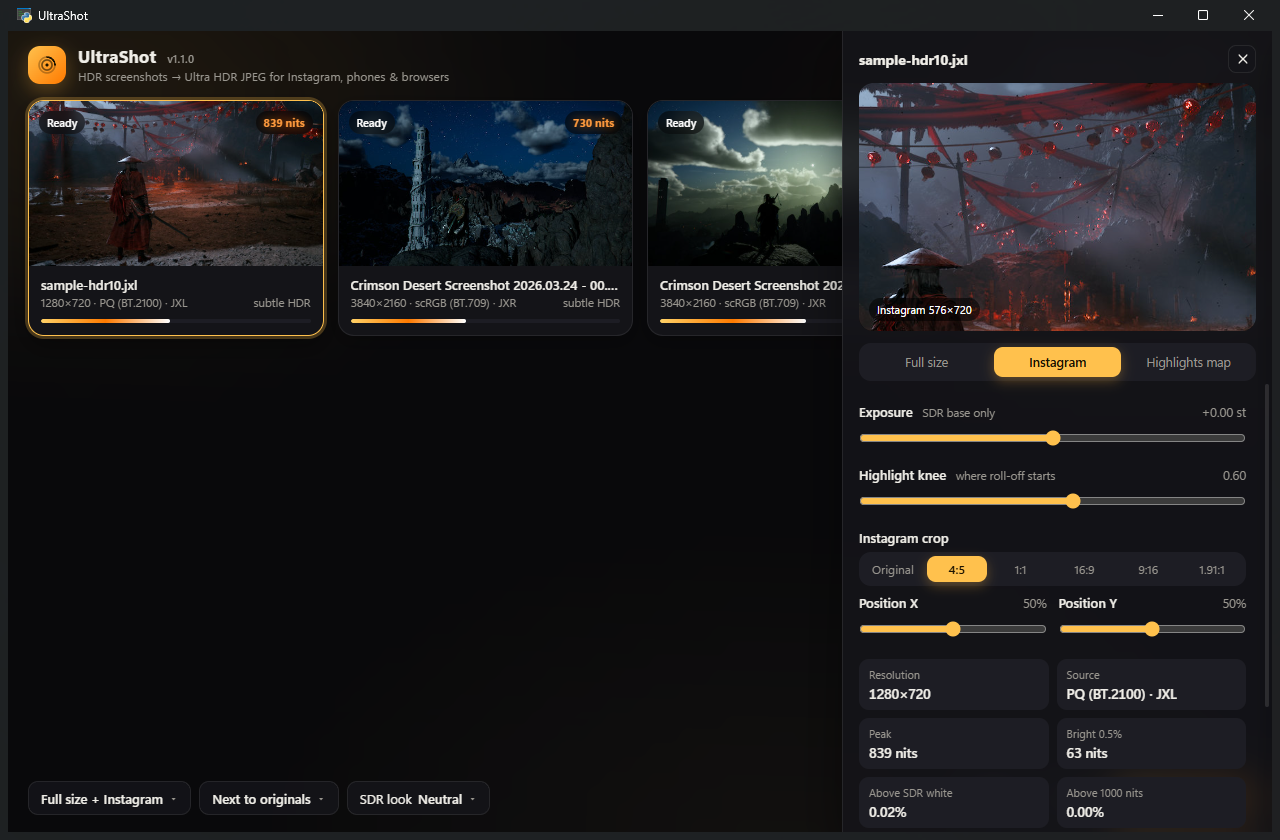
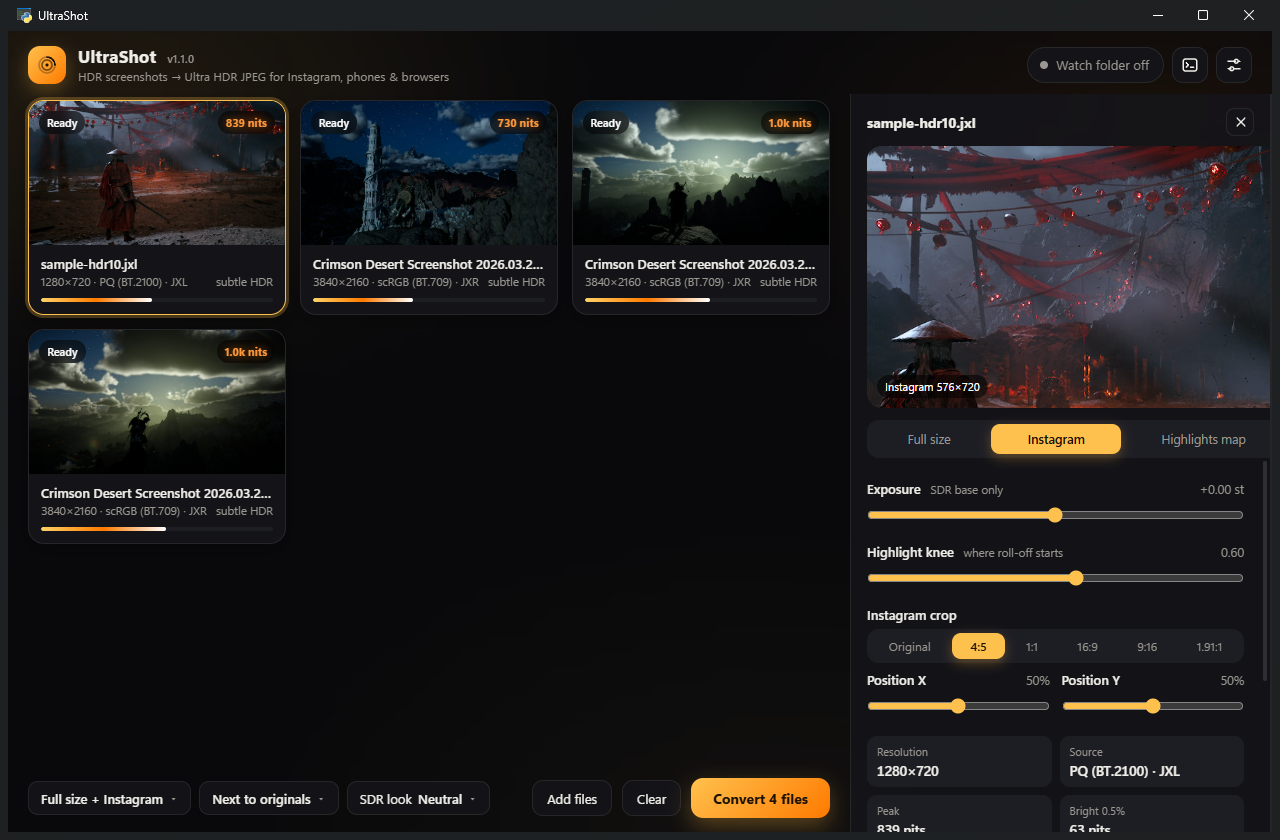
Side panes that stack beside the content
The inspector, log and settings are now panes that open side by side to the
right of the file list, each with a comfortable minimum width. When another
pane would not fit at the current window size, the one opened longest ago
closes instead of squeezing them all. Settings and log keep their close
buttons; Esc closes the most recent.

Changed region(s): [[0.0, 0.0619, 1.0, 0.9905], [0.0312, 0.5571, 0.2188, 0.65], [0.4062, 0.9286, 0.4688, 0.9595]]

diff --git a/ui/app.css b/ui/app.css
@@ -29,8 +29,21 @@ html, body { height: 100%; margin: 0; }
 body {
   font-family: var(--font); color: var(--text); background: var(--bg);
   overflow: hidden; user-select: none; -webkit-user-select: none;
-  display: grid; grid-template-rows: auto 1fr auto; height: 100vh;
+  display: grid; grid-template-rows: auto 1fr; height: 100vh;
 }
+/* ---------- workspace: content on the left, side panes stacked on the right */
+.workspace { display: flex; min-height: 0; position: relative; z-index: 1; }
+.left { flex: 1 1 auto; min-width: 300px; display: flex; flex-direction: column; min-height: 0; }
+.left > main { flex: 1 1 auto; }
+.panes { display: flex; flex: 0 1 auto; max-width: calc(100% - 300px); min-height: 0; z-index: 5; }
+::-webkit-scrollbar-corner { background: transparent; }
+.pane {
+  flex: 0 0 0px; width: 0; min-width: 0; overflow: hidden; display: flex; flex-direction: column;
+  border-left: 1px solid var(--border); background: var(--panel); backdrop-filter: blur(18px);
+  transition: flex-basis .25s cubic-bezier(.2,.8,.2,1), min-width .25s cubic-bezier(.2,.8,.2,1);
+}
+.pane.open { flex: 1 1 var(--w); min-width: var(--min); max-width: var(--wmax); }
+.pane > * { min-width: calc(var(--min) - 1px); }
 button { font-family: inherit; color: inherit; cursor: pointer; border: 0; background: none; }
 button:focus-visible, input:focus-visible { outline: 2px solid var(--accent); outline-offset: 2px; }
 .hidden { display: none !important; }
@@ -162,12 +175,7 @@ small { color: var(--muted); font-weight: 400; }
 .progress .fill { height: 100%; width: 0; border-radius: 6px; background: linear-gradient(90deg, var(--accent), var(--accent2)); transition: width .3s; }
 
 /* ---------- inspector */
-.inspector {
-  position: fixed; top: 0; right: 0; bottom: 0; width: 430px; z-index: 20; transform: translateX(105%);
-  transition: transform .25s cubic-bezier(.2,.8,.2,1); background: var(--panel); backdrop-filter: blur(18px);
-  border-left: 1px solid var(--border); box-shadow: var(--shadow); display: flex; flex-direction: column;
-}
-.inspector.open { transform: none; }
+.inspector { --w: 440px; --min: 420px; --wmax: 520px; order: 1; }
 .insp-head { display: flex; align-items: center; justify-content: space-between; padding: 14px 16px 10px; }
 .insp-title { font-weight: 650; font-size: 14px; white-space: nowrap; overflow: hidden; text-overflow: ellipsis; }
 .insp-preview { position: relative; margin: 0 16px; border-radius: 14px; overflow: hidden; background: #000; aspect-ratio: 16/10; display: grid; place-items: center; }
@@ -176,7 +184,7 @@ small { color: var(--muted); font-weight: 400; }
 .insp-loading .spinner { width: 22px; height: 22px; }
 .insp-overlay { position: absolute; left: 10px; bottom: 10px; font-size: 11px; padding: 4px 8px; border-radius: 999px; background: rgba(0,0,0,.55); color: #fff; }
 .seg { display: flex; gap: 4px; padding: 4px; border-radius: 12px; background: var(--panel2); margin: 12px 16px 0; }
-.seg button { flex: 1; height: 30px; border-radius: 9px; font-size: 12.5px; color: var(--muted); transition: all .15s; }
+.seg button { flex: 1; height: 30px; border-radius: 9px; font-size: 12.5px; color: var(--muted); transition: all .15s; white-space: nowrap; padding: 0 6px; }
 .seg button.on { background: var(--accent); color: #1b1200; font-weight: 600; box-shadow: 0 4px 12px rgba(255,183,61,.30); }
 .seg.mini { margin: 6px 0 0; }
 .seg.mini button { height: 26px; font-size: 12px; }
@@ -196,12 +204,8 @@ input[type=range] { width: 100%; margin: 8px 0 0; accent-color: var(--accent); h
 .insp-actions .primary { height: 36px; padding: 0 16px; font-size: 13px; }
 
 /* ---------- settings page */
-.page {
-  position: fixed; top: 0; right: 0; bottom: 0; width: min(640px, 100%); z-index: 30; overflow: auto;
-  background: var(--panel); backdrop-filter: blur(18px); border-left: 1px solid var(--border); box-shadow: var(--shadow);
-  transform: translateX(105%); transition: transform .25s cubic-bezier(.2,.8,.2,1);
-}
-.page.open { transform: none; }
+.page { --w: 620px; --min: 600px; --wmax: 720px; order: 3; }
+.page.open { overflow: auto; }
 .page-head { display: flex; align-items: center; justify-content: space-between; gap: 12px; padding: 14px 20px 8px; position: sticky; top: 0; background: var(--panel-solid); z-index: 2; border-bottom: 1px solid var(--border); }
 .page-head h1 { font-size: 18px; margin: 0; }
 .page-body { padding: 4px 20px 40px; }
@@ -217,10 +221,10 @@ input[type=range] { width: 100%; margin: 8px 0 0; accent-color: var(--accent); h
 .row .ctl { display: flex; align-items: center; gap: 8px; flex-shrink: 0; }
 .row input[type=text], .row input[type=number] {
   height: 32px; border-radius: 9px; border: 1px solid var(--border2); background: var(--panel2); color: var(--text);
-  padding: 0 10px; font: inherit; font-size: 13px; width: 220px;
+  padding: 0 10px; font: inherit; font-size: 13px; width: min(220px, 100%);
 }
 .row input[type=number] { width: 110px; }
-.row input[type=range] { width: 220px; margin: 0; }
+.row input[type=range] { width: min(220px, 100%); margin: 0; }
 .row .seg { margin: 0; }
 .row .seg button { flex: 0 0 auto; padding: 0 12px; }
 .switch { width: 42px; height: 24px; border-radius: 999px; background: var(--border2); position: relative; transition: background .15s; }
@@ -233,15 +237,10 @@ input[type=range] { width: 100%; margin: 8px 0 0; accent-color: var(--accent); h
 .example b { color: var(--text); font-weight: 600; display: block; margin-top: 2px; }
 
 /* ---------- log drawer */
-.drawer {
-  position: fixed; top: 0; right: 0; bottom: 0; width: min(520px, 100%); z-index: 28;
-  background: var(--panel); backdrop-filter: blur(16px); border-left: 1px solid var(--border); box-shadow: var(--shadow);
-  display: flex; flex-direction: column; transform: translateX(105%); transition: transform .25s cubic-bezier(.2,.8,.2,1);
-}
-.drawer.open { transform: none; }
+.drawer { --w: 460px; --min: 440px; --wmax: 640px; order: 2; }
 .drawer-head { display: flex; justify-content: space-between; align-items: center; padding: 14px 14px 10px 20px; font-size: 18px; font-weight: 600; border-bottom: 1px solid var(--border); }
 .drawer-head > div { display: flex; align-items: center; gap: 8px; }
-.drawer pre { margin: 0; padding: 10px 14px; overflow: auto; flex: 1; font-family: var(--mono); font-size: 12px; line-height: 1.5; color: var(--muted); user-select: text; }
+.drawer pre { margin: 0; padding: 10px 14px; overflow: auto; flex: 1; font-family: var(--mono); font-size: 12px; line-height: 1.5; color: var(--muted); user-select: text; white-space: pre-wrap; word-break: break-word; }
 .drawer pre .t { color: var(--accent); }
 .drawer pre .err { color: var(--err); }
 
@@ -293,3 +292,8 @@ input[type=range] { width: 100%; margin: 8px 0 0; accent-color: var(--accent); h
 .lb-nav:hover { background: var(--panel2); }
 .lb-prev { grid-column: 1; } .lb-next { grid-column: 3; }
 .lb-foot { grid-column: 1 / -1; text-align: center; font-size: 12px; color: var(--muted); padding: 8px 18px 12px; }
+
+/* segmented controls wrap rather than clip when a pane is narrow */
+.seg { flex-wrap: wrap; }
+.seg button { flex: 1 1 auto; }
+

diff --git a/ui/app.js b/ui/app.js
@@ -181,12 +181,12 @@ function select(id) {
   document.querySelectorAll(".card").forEach((c) => c.classList.toggle("selected", c.dataset.id === id));
   const f = S.files.get(id);
   $("#inspName").textContent = f.name;
-  $("#inspector").classList.add("open");
+  openPane("inspector");
   renderInspectorControls();
   renderInspectorInfo(f);
   requestPreview();
 }
-function closeInspector() { S.selected = null; $("#inspector").classList.remove("open"); document.querySelectorAll(".card.selected").forEach((c) => c.classList.remove("selected")); }
+function closeInspector() { S.selected = null; closePane("inspector"); document.querySelectorAll(".card.selected").forEach((c) => c.classList.remove("selected")); }
 
 function renderInspectorControls() {
   const s = S.settings;
@@ -357,10 +357,33 @@ async function saveSetting(key, val) {
   if (["exposure", "knee", "auto_sdr", "ig_crop", "crop_x", "crop_y", "transfer", "ig_width"].includes(key)) requestPreview();
 }
 
-function openSettings() { closeLog(); closeInspector(); $("#settings").classList.add("open"); renderSettings(); }
-function closeSettings() { $("#settings").classList.remove("open"); }
-function openLog() { closeSettings(); closeInspector(); $("#logdrawer").classList.add("open"); const pre = $("#logbody"); pre.scrollTop = pre.scrollHeight; }
-function closeLog() { $("#logdrawer").classList.remove("open"); }
+/* Side panes keep comfortable widths; when another pane would not fit beside the content,
+   the pane opened longest ago is closed instead of squeezing all of them. */
+const PANES = { inspector: 420, logdrawer: 440, settings: 600 };
+const paneOrder = [];
+const CONTENT_MIN = 300;
+function openPane(id) {
+  const i = paneOrder.indexOf(id); if (i >= 0) paneOrder.splice(i, 1);
+  paneOrder.push(id);
+  document.getElementById(id).classList.add("open");
+  fitPanes();
+}
+function closePane(id) {
+  const i = paneOrder.indexOf(id); if (i >= 0) paneOrder.splice(i, 1);
+  document.getElementById(id).classList.remove("open");
+}
+function fitPanes() {
+  const avail = window.innerWidth - CONTENT_MIN;
+  while (paneOrder.length > 1 && paneOrder.reduce((s, id) => s + PANES[id], 0) > avail) {
+    const oldest = paneOrder[0];
+    if (oldest === "inspector") { closeInspector(); } else { closePane(oldest); }
+  }
+}
+window.addEventListener("resize", fitPanes);
+function openSettings() { openPane("settings"); renderSettings(); }
+function closeSettings() { closePane("settings"); }
+function openLog() { openPane("logdrawer"); const pre = $("#logbody"); pre.scrollTop = pre.scrollHeight; }
+function closeLog() { closePane("logdrawer"); }
 function toggleLog() { $("#logdrawer").classList.contains("open") ? closeLog() : openLog(); }
 
 /* ------------------------------------------------------------------ popovers, toasts, log */
@@ -445,7 +468,7 @@ function bindUI() {
   $("#btnClear").addEventListener("click", () => S.api.clear());
   $("#btnClearDone").addEventListener("click", () => S.api.clear_done());
   $("#btnConvert").addEventListener("click", convertAll);
-  $("#btnSettings").addEventListener("click", openSettings);
+  $("#btnSettings").addEventListener("click", () => $("#settings").classList.contains("open") ? closeSettings() : openSettings());
   $("#settingsBack").addEventListener("click", closeSettings);
   $("#btnLog").addEventListener("click", toggleLog);
   $("#btnLogClose").addEventListener("click", closeLog);

diff --git a/ui/index.html b/ui/index.html
@@ -34,6 +34,8 @@
   </div>
 </header>
 
+<div class="workspace">
+<div class="left">
 <main id="main">
   <section id="empty" class="dropzone" tabindex="0">
     <div class="dz-inner">
@@ -64,8 +66,10 @@
     <button class="primary" id="btnConvert">Convert</button>
   </div>
 </footer>
+</div>
+<div class="panes" id="panes">
 
-<aside id="inspector" class="inspector" aria-hidden="true">
+<aside id="inspector" class="inspector pane" aria-hidden="true">
   <div class="insp-head">
     <div class="insp-title" id="inspName">—</div>
     <button class="iconbtn small" id="inspClose" title="Close">
@@ -112,7 +116,7 @@
   </div>
 </aside>
 
-<div id="settings" class="page" aria-label="Settings">
+<div id="settings" class="page pane" aria-label="Settings">
   <div class="page-head">
     <h1>Settings</h1>
     <button class="iconbtn small" id="settingsBack" title="Close (Esc)">
@@ -122,9 +126,11 @@
   <div class="page-body" id="settingsBody"></div>
 </div>
 
-<div id="logdrawer" class="drawer" aria-label="Log">
+<div id="logdrawer" class="drawer pane" aria-label="Log">
   <div class="drawer-head"><span>Log</span><div><button class="ghost tiny" id="btnLogClear">Clear</button><button class="iconbtn small" id="btnLogClose"><svg viewBox="0 0 24 24" width="14" height="14" fill="none" stroke="currentColor" stroke-width="2" stroke-linecap="round"><path d="M6 6l12 12M18 6L6 18"/></svg></button></div></div>
   <pre id="logbody"></pre>
+</div>
+</div>
 </div>
 
 <div id="lightbox" class="lightbox hidden" role="dialog" aria-label="Converted image viewer">

diff --git a/tools/screenshots.py b/tools/screenshots.py
@@ -105,6 +105,9 @@ def main():
         js("closeSettings(); openLog()")
         time.sleep(1.0)
         shot("log.png")
+        js("openSettings(); document.querySelector('.card').click()")
+        time.sleep(3.0)
+        shot("panes-side-by-side.png")
         window.destroy()
 
     window.events.loaded += lambda: threading.Thread(target=flow, daemon=True).start()
